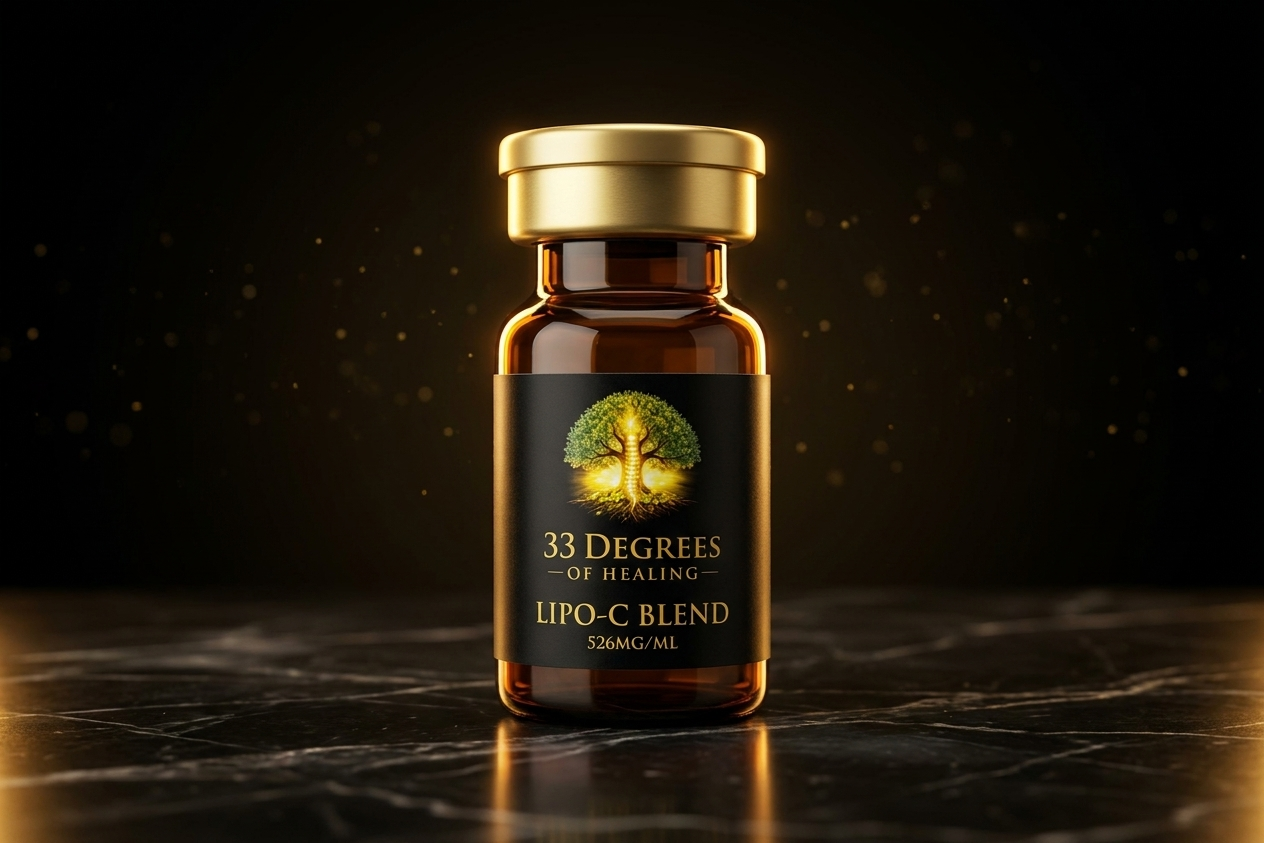
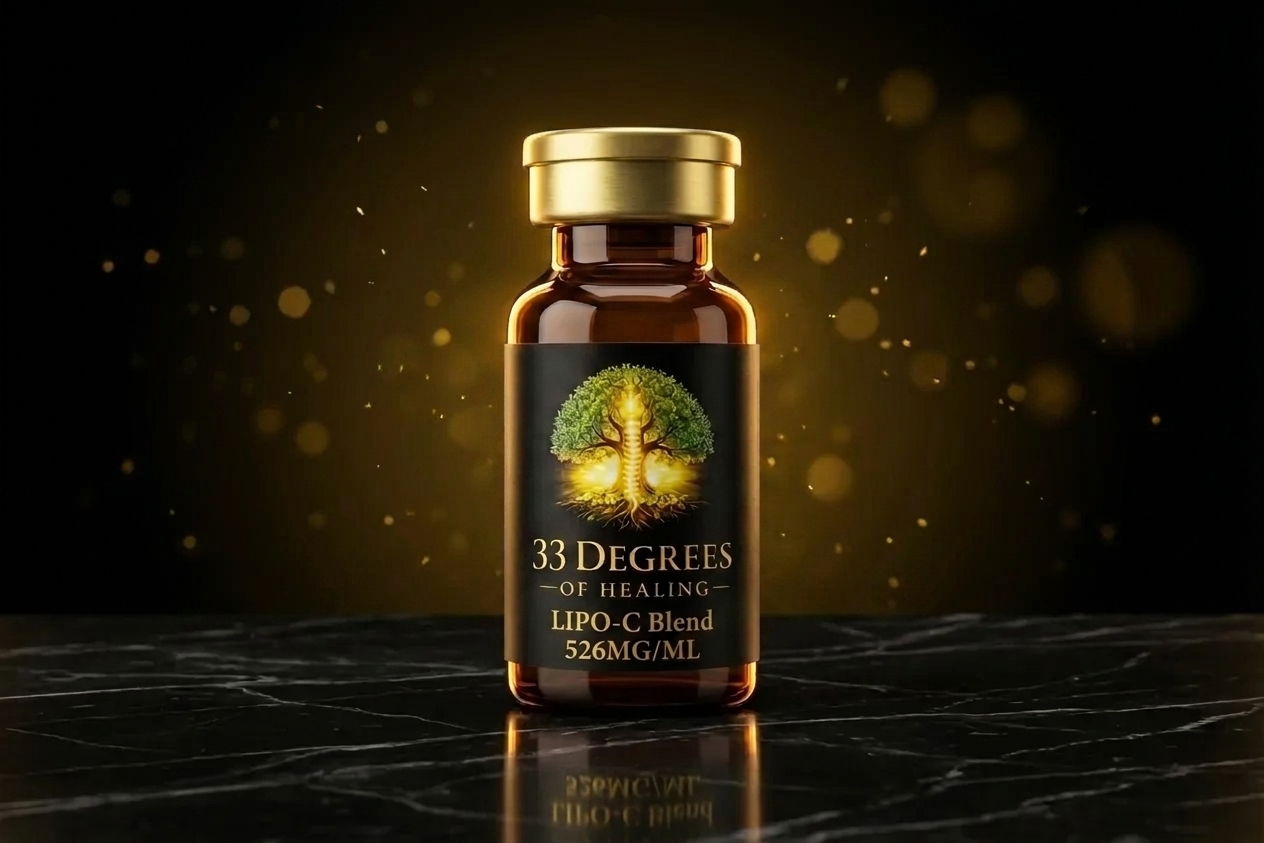
LIPO-C vial: clone Semax image with text swap (matches lineup exactly)

diff --git a/tools/generate_lipo_vial_ai.py b/tools/generate_lipo_vial_ai.py
@@ -1,4 +1,9 @@
-"""Generate LIPO-C vial image — amber glass peptide-style vial (NOT capsule)."""
+"""Generate LIPO-C vial image by cloning the Semax vial and swapping label text.
+
+Uses the existing semax.webp as the reference image — keeps shape,
+proportions, cap, lighting, marble surface, bokeh background identical.
+Only the label text changes.
+"""
 from google import genai
 from google.genai import types
 from PIL import Image
@@ -19,48 +24,36 @@ def _load_env_key():
 API_KEY = _load_env_key()
 MODEL = "nano-banana-pro-preview"
 OUTPUT_DIR = os.path.join(os.path.dirname(os.path.dirname(__file__)), "assets/images/products")
-LABEL_PATH = os.path.expanduser("~/Desktop/33 degrees/Reta Label.png")
+REFERENCE_PATH = os.path.join(OUTPUT_DIR, "semax.webp")
 
 client = genai.Client(api_key=API_KEY)
 
 
 def generate():
-    prompt = """Generate a photorealistic product image of a small amber glass PEPTIDE INJECTION VIAL for a research compound company called "33 Degrees of Healing". This must visually match a lineup of existing peptide vials (PT-141, Kisspeptin, Selank, Semax) shown alongside it on the website.
+    prompt = """Take the attached product image (a 33 Degrees of Healing amber glass peptide vial) and produce a new image that is IDENTICAL in every visual respect EXCEPT for two text changes on the label:
 
-CRITICAL SHAPE & PROPORTION REQUIREMENTS:
-- Standard 10mL pharmaceutical lyophilization vial / peptide vial
-- STOCKY proportions — only about 1.4-1.6x taller than wide (NOT a tall thin test tube)
-- Wide cylindrical body with a short neck at the top
-- LARGE GOLD ALUMINUM FLIP-OFF CAP — almost the full diameter of the vial body, distinctive crown shape with a smooth dome top
-- Body diameter and cap diameter should be nearly the same
-- Think: classic peptide research vial like BPC-157 or TB-500 packaging
+CHANGE THESE TWO STRINGS ONLY:
+1. Where the label currently says "Semax" — change it to "LIPO-C Blend"
+2. Where the label currently shows "11MG" (the dose) — change it to "526MG/ML"
 
-LABEL LAYOUT (must match the existing lineup exactly):
-- Black rectangular label wrapping the middle of the vial body (does NOT cover the entire body)
-- At the TOP of the label: the golden tree of life logo (from attached reference) — prominent and centered
-- Below the logo: "33 DEGREES OF HEALING" in SMALL gold serif text (subtle, decorative)
-- Below the brand: "LIPO-C BLEND" as the product name in MEDIUM-SIZED gold serif text (NOT huge — same scale as "PT-141" or "Kisspeptin" would be on a peptide vial)
-- At the BOTTOM of the label: "526MG/ML" in tiny gold text
-- The label should NOT have huge oversized product-name text
+KEEP IDENTICAL:
+- The vial shape, size, proportions, glass color (amber)
+- The gold flip-off cap (same shape, size, color, finish)
+- The black label position, size, and rounded edges
+- The golden tree of life logo (unchanged, same position)
+- The "33 DEGREES OF HEALING" text (unchanged, same font, size, position)
+- The exact dark marble surface, golden bokeh background, lighting, rim glow, reflection
+- The camera angle and framing
 
-STAGING (match other vials — CRITICAL):
-- FULL-BLEED DARK SCENE — entire image frame must be dark/black background, NO white borders, NO white margins, NO bright frame around the composition
-- Vial sits on dark reflective marble surface that extends to the edges of the image
-- Dramatic studio lighting with warm golden rim lighting along the vial edges
-- Dark moody background with subtle gold bokeh particles
-- Single vial, centered, with subtle reflection on the marble surface below
-- Premium medical-grade injection-vial photography
-- The composition should look like a tight close-up product shot, NOT a render of a vial on a podium with empty space around it
+The only edits should be the two text strings on the label. Everything else must be a near-perfect visual match to the reference image."""
 
-Use the attached label image strictly as brand-design reference for the tree logo and gold-on-black typography styling. The OUTPUT vial must look like a small pharmaceutical injection vial in the same family as the other research peptide vials, NOT a wider supplement bottle."""
-
-    with open(LABEL_PATH, "rb") as f:
-        label_bytes = f.read()
+    with open(REFERENCE_PATH, "rb") as f:
+        ref_bytes = f.read()
 
     response = client.models.generate_content(
         model=MODEL,
         contents=[
-            types.Part.from_bytes(data=label_bytes, mime_type="image/png"),
+            types.Part.from_bytes(data=ref_bytes, mime_type="image/webp"),
             prompt,
         ],
         config=types.GenerateContentConfig(response_modalities=["IMAGE", "TEXT"]),
@@ -75,10 +68,13 @@ Use the attached label image strictly as brand-design reference for the tree log
                 print(f"Created: lipo-c.webp ({img.size[0]}x{img.size[1]})")
                 return True
     print("FAILED — no image in response")
+    if response.candidates:
+        for part in response.candidates[0].content.parts:
+            if part.text:
+                print(f"Response text: {part.text[:300]}")
     return False
 
 
 if __name__ == "__main__":
-    os.makedirs(OUTPUT_DIR, exist_ok=True)
-    print("Generating LIPO-C vial via Nano Banana Pro...")
+    print(f"Cloning {REFERENCE_PATH} with label text swap...")
     generate()
